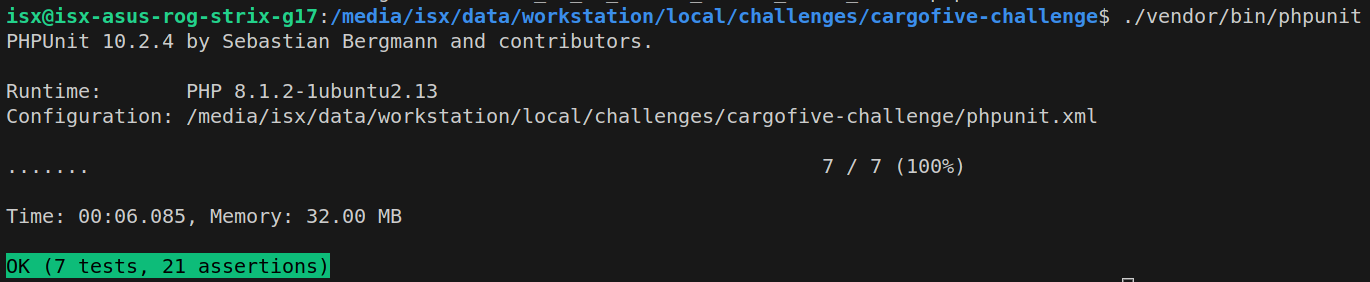
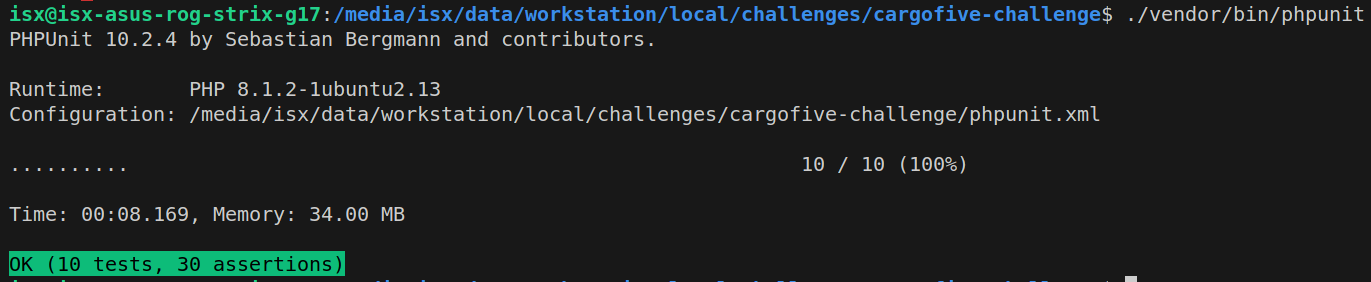
chore: other tests about rates

diff --git a/tests/RatesTest.php b/tests/RatesTest.php
@@ -6,6 +6,116 @@ use Illuminate\Http\UploadedFile;
 
 class RatesTest extends TestCase
 {
+    public function testLoadRatesEndpointReturnsSucessFully(): void
+    {
+        $responseAuthenticate = $this->call('POST', '/authenticate',[
+            'email' => env('USER_EMAIL'),
+            'password' => env('USER_PASSWORD')
+        ]);
+
+        $contentAuthenticate = json_decode($responseAuthenticate->content());
+
+        $file = new UploadedFile(
+            base_path('tests/files/correct_data.xlsx'),
+            'correct_data.xlsx',
+            null,
+            null,
+            true
+        );
+
+        $response = $this->post('/rates', [
+            'file' => $file
+        ], [
+            'Authorization' => "Bearer {$contentAuthenticate->token}"
+        ]);
+
+        $this->seeStatusCode(201);
+        $this->seeJsonStructure(
+            [
+                "message"
+            ]
+        );
+        $content = json_decode($this->response->content());
+        $this->assertEquals("Rates saved successfully", $content->message);
+    }
+
+    public function testLoadRatesEndpointWithoutTokenReturnUnauthorized(): void
+    {
+        $file = new UploadedFile(
+            base_path('tests/files/correct_data.xlsx'),
+            'correct_data.xlsx',
+            null,
+            null,
+            true
+        );
+
+        $response = $this->post('/rates');
+
+        $this->seeStatusCode(401);
+        $this->seeJsonStructure(
+            [
+                "message"
+            ]
+        );
+        $content = json_decode($this->response->content());
+        $this->assertEquals("Unauthorized: Bearer token required", $content->message);
+    }
+
+    public function testLoadRatesEndpointWithoutFileReturnError(): void
+    {
+        $responseAuthenticate = $this->call('POST', '/authenticate',[
+            'email' => env('USER_EMAIL'),
+            'password' => env('USER_PASSWORD')
+        ]);
+        
+        $contentAuthenticate = json_decode($responseAuthenticate->content());
+
+        $response = $this->post('/rates', [], [
+            'Authorization' => "Bearer {$contentAuthenticate->token}"
+        ]);
+
+        $this->seeStatusCode(500);
+        $this->seeJsonStructure(
+            [
+                "message"
+            ]
+        );
+        $content = json_decode($this->response->content());
+        $this->assertEquals("The file field is required.", $content->message);
+    }
+
+    public function testLoadRatesEndpointFileIncorrectCarrierReturnError(): void
+    {
+        $responseAuthenticate = $this->call('POST', '/authenticate',[
+            'email' => env('USER_EMAIL'),
+            'password' => env('USER_PASSWORD')
+        ]);
+
+        $contentAuthenticate = json_decode($responseAuthenticate->content());
+        $file = new UploadedFile(
+            base_path('tests/files/incorrect_data.xlsx'),
+            'correct_data.xlsx',
+            null,
+            null,
+            true
+        );
+
+        $response = $this->post('/rates', [
+            'file' => $file
+        ], [
+            'Authorization' => "Bearer {$contentAuthenticate->token}"
+        ]);
+
+        $this->seeStatusCode(404);
+        $this->seeJsonStructure(
+            [
+                "message"
+            ]
+        );
+        $content = json_decode($this->response->content());
+        $this->assertEquals("Fila 2: carrier MSC-- does not exist", $content->message);
+    }
+
     public function testGetRatesEndpointReturnsSuccessfulResponse(): void
     {
         $responseAuthenticate = $this->call('POST', '/authenticate',[
@@ -54,38 +164,5 @@ class RatesTest extends TestCase
         );
         $content = json_decode($this->response->content());
         $this->assertEquals("Invalid JWT", $content->message);
-    }
-
-    public function testLoadRatesEndpointReturnsSucessFully(): void
-    {
-        $responseAuthenticate = $this->call('POST', '/authenticate',[
-            'email' => env('USER_EMAIL'),
-            'password' => env('USER_PASSWORD')
-        ]);
-        
-        $contentAuthenticate = json_decode($responseAuthenticate->content());
-
-        $file = new UploadedFile(
-            base_path('tests/files/correct_data.xlsx'),
-            'correct_data.xlsx',
-            null,
-            null,
-            true
-        );
-
-        $response = $this->post('/rates', [
-            'file' => $file
-        ], [
-            'Authorization' => "Bearer {$contentAuthenticate->token}"
-        ]);
-
-        $this->seeStatusCode(201);
-        $this->seeJsonStructure(
-            [
-                "message"
-            ]
-        );
-        $content = json_decode($this->response->content());
-        $this->assertEquals("Rates saved successfully", $content->message);
     }
 }
